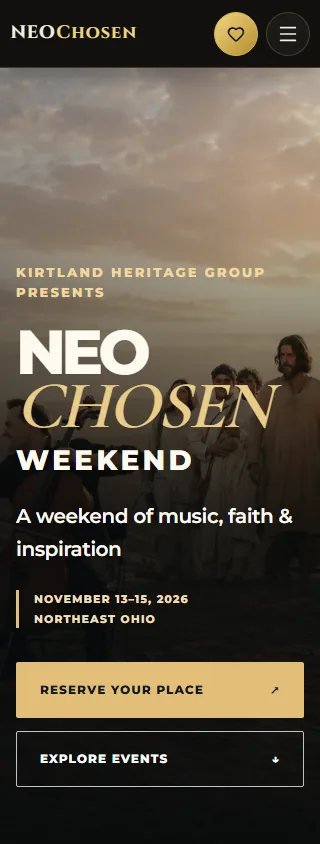
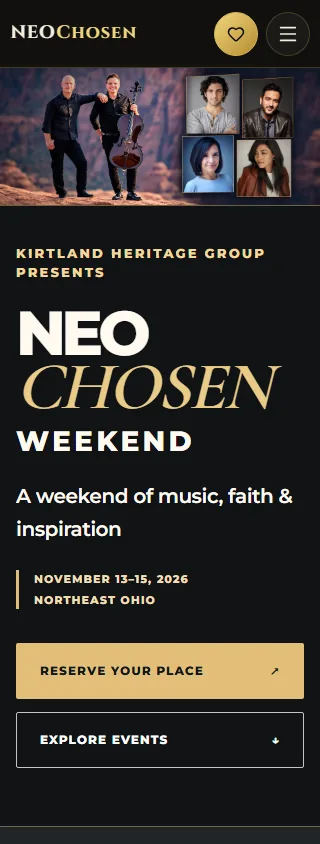
Use supplied NeoHeader image for homepage hero

diff --git a/index.html b/index.html
@@ -10,14 +10,14 @@
   <meta property="og:title" content="NEO Chosen Weekend | November 13–15, 2026">
   <meta property="og:description" content="Three days of music, faith, and community across Northeast Ohio. Explore free events and the separately ticketed Piano Guys concert.">
   <meta property="og:url" content="https://neochosen.com/">
-  <meta property="og:image" content="https://neochosen.com/images/hero.png">
+  <meta property="og:image" content="https://neochosen.com/images/NeoHeader.webp">
   <link rel="icon" type="image/png" href="/images/favicon.png">
   <link rel="manifest" href="/manifest.webmanifest">
   <meta name="theme-color" content="#171613">
   <link rel="preconnect" href="https://fonts.googleapis.com">
   <link rel="preconnect" href="https://fonts.gstatic.com" crossorigin>
   <link href="https://fonts.googleapis.com/css2?family=Cinzel:wght@400;600;700&amp;family=Cormorant+Garamond:wght@400;500;600&amp;family=Montserrat:wght@400;500;600;700;800&amp;display=swap" rel="stylesheet">
-  <link rel="preload" as="image" href="/images/hero.webp" type="image/webp">
+  <link rel="preload" as="image" href="/images/NeoHeader.webp" type="image/webp">
   <link rel="stylesheet" href="/site.css">
   <link rel="stylesheet" href="/sponsor-system.css">
   <link rel="stylesheet" href="/homepage.css">
@@ -27,7 +27,7 @@
   <nav class="site-nav" aria-label="Main navigation"></nav>
   <main id="main-content">
     <section class="home-hero" aria-labelledby="home-title">
-      <img class="home-hero-image" src="/images/hero.webp" alt="The Piano Guys and cast members from The Chosen together in a desert landscape" width="1448" height="1086" fetchpriority="high">
+      <img class="home-hero-image" src="/images/NeoHeader.webp" alt="The Piano Guys beside portraits of four cast members from The Chosen" width="1918" height="820" fetchpriority="high">
       <div class="home-hero-shade"></div>
       <div class="home-hero-inner home-shell">
         <p class="home-eyebrow">Kirtland Heritage Group Presents</p>

diff --git a/homepage.css b/homepage.css
@@ -228,8 +228,10 @@
 .homepage .site-footer-grid { grid-template-columns: 1.2fr .7fr 1.1fr; gap: clamp(24px, 5vw, 85px); }
 
 @media (max-width: 1100px) {
-  .home-hero { min-height: 740px; }
-  .home-hero-image { object-position: 55% center; }
+  .home-hero { display: block; min-height: 0; }
+  .home-hero-image { position: relative; width: 100%; height: auto; object-fit: contain; border-bottom: 1px solid rgba(226,191,120,.45); }
+  .home-hero-shade, .home-hero-side-note { display: none; }
+  .home-hero-inner { padding-block: 38px 58px; }
   .home-hero h1 { font-size: clamp(88px, 10vw, 120px); }
   .home-sponsor-list { grid-template-columns: repeat(3, minmax(0, 1fr)); }
   .home-performer-card img { height: 240px; }
@@ -251,10 +253,6 @@
   .home-section { padding-block: 76px; }
   .home-section-heading { display: block; margin-bottom: 32px; }
   .home-section-heading > p { margin-top: 18px; }
-  .home-hero { min-height: 760px; align-items: end; }
-  .home-hero-image { object-position: 60% center; }
-  .home-hero-shade { background: linear-gradient(0deg,rgba(6,10,11,.97) 0%,rgba(6,10,11,.84) 42%,rgba(6,10,11,.18) 84%),linear-gradient(90deg,rgba(6,10,11,.24),transparent 80%); }
-  .home-hero-inner { padding-block: 195px 58px; }
   .home-hero h1 { font-size: clamp(78px, 14vw, 102px); }
   .home-hero .home-title-weekend { margin-top: 13px; }
   .home-hero-side-note { display: none; }
@@ -280,7 +278,7 @@
 @media (max-width: 430px) {
   .home-shell { width: min(100% - 32px, 1220px); }
   .homepage h2 { font-size: clamp(40px, 11vw, 50px); }
-  .home-hero { min-height: 760px; }
+  .home-hero { min-height: 0; }
   .home-hero h1 { font-size: clamp(66px, 18vw, 82px); }
   .home-hero-lede { font-size: 20px; }
   .home-hero-date { flex-direction: column; gap: 2px; font-size: 11px; }

diff --git a/docs/review/refinement-comparison.md b/docs/review/refinement-comparison.md
@@ -6,7 +6,7 @@ The first redesign had the right sequence and verified event information, but it
 
 ## AFTER
 
-The page opens with a larger three-line event name over the existing hero photo, followed by a slim Great Lakes presenting ribbon. The [desktop](1440-full.webp) and [mobile](390-full.webp) captures show stronger light and dark pacing across the same section sequence. The [Piano Guys concert](1440-concert.webp) is the full-width event feature using the supplied photo, and the [performer](1440-performers.webp) and [sponsor](1440-partners.webp) sections carry more visual weight.
+The page opens with a larger three-line event name over the supplied header collage, saved as `images/NeoHeader.webp`, followed by a slim Great Lakes presenting ribbon. On narrow screens, the full collage appears above the headline so every portrait remains visible. The [desktop](1440-full.webp) and [mobile](390-full.webp) captures show stronger light and dark pacing across the same section sequence. The [Piano Guys concert](1440-concert.webp) is the full-width event feature using the supplied photo, and the [performer](1440-performers.webp) and [sponsor](1440-partners.webp) sections carry more visual weight.
 
 ## WHAT CHANGED
 
